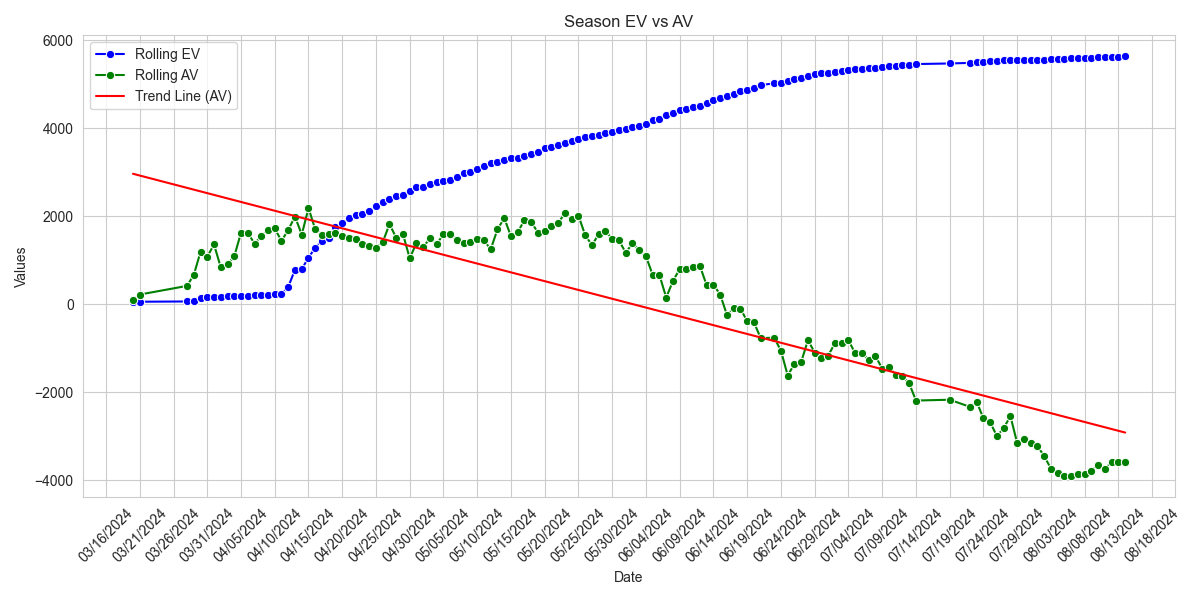
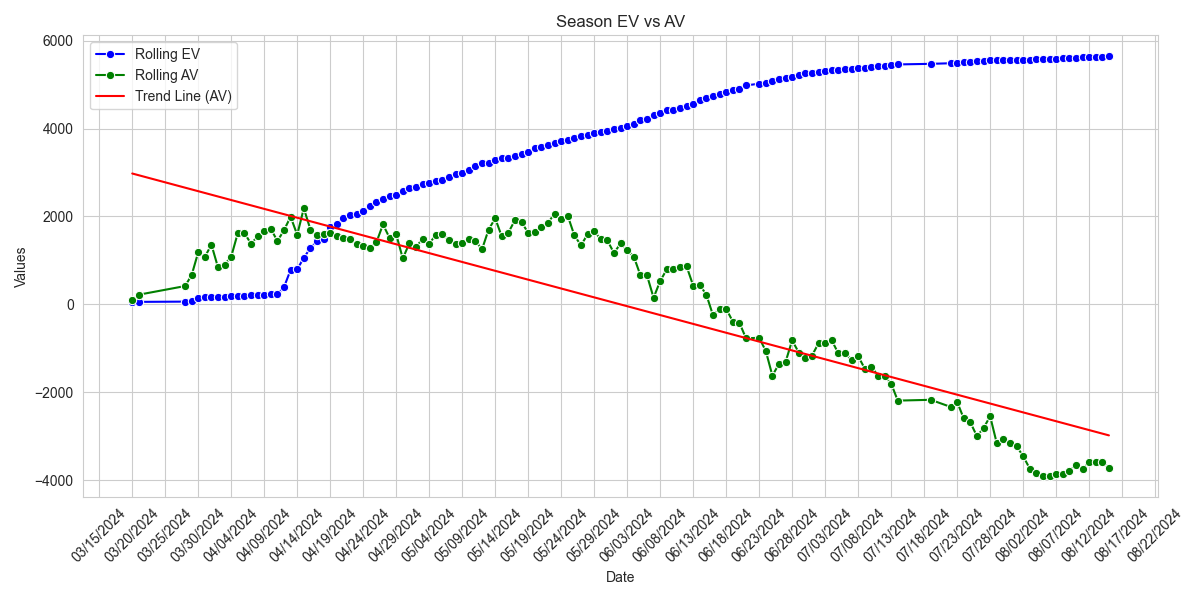
web

Changed region(s): [[0.0617, 0.03, 0.9867, 0.81], [0.0617, 0.84, 0.9867, 0.99], [0.1233, 0.3, 0.185, 0.33]]

diff --git a/index.html b/index.html
@@ -1,1 +1,1 @@
-<html><head><meta name="viewport" content="width=device-width, initial-scale=1"><meta http-equiv="Cache-Control" content="no-cache, no-store, must-revalidate"><meta http-equiv="Pragma" content="no-cache"><meta http-equiv="Expires" content="0"><title>MLB Shit</title><link rel="stylesheet" type="text/css" href="styles.css"></head><body><p><b>Daily Picks</b></p><table><tr><th>Date</th><th>Team</th><th>Price</th><th>Bet</th><th>Win</th><th>WP</th><th>EV</th><th>Type</th><th>Result</th></tr><tr><td>08/15/2024</td><td><img src='https://www.mlbstatic.com/team-logos/142.svg' height=30 width=30></td><td>-115</td><td>$70.00</td><td>$60.87</td><td>56.9%</td><td>4.5%</td><td>Fav</td><td></td></td><tr><td>08/15/2024</td><td><img src='https://www.mlbstatic.com/team-logos/136.svg' height=30 width=30></td><td>-135</td><td>$70.50</td><td>$52.22</td><td>58.1%</td><td>0.8%</td><td>Fav</td><td></td></td><tr><td>08/15/2024</td><td><img src='https://www.mlbstatic.com/team-logos/119.svg' height=30 width=30></td><td>-135</td><td>$73.50</td><td>$54.44</td><td>59.7%</td><td>2.9%</td><td>Fav</td><td></td></td><tr><td>08/15/2024</td><td><img src='https://www.mlbstatic.com/team-logos/144.svg' height=30 width=30></td><td>+102</td><td>$59.75</td><td>$60.95</td><td>49.7%</td><td>0.2%</td><td>Dog</td><td></td></td><tr><th colspan=9><B>SUMMARY: $273.75 in play to win $228.48</B></th></tr><tr><th colspan=9><B>LAST UPDATED: 08/15/2024 12:57 PM</B></th></tr></table><p><b>Monthly Totals</b></p><table><tr><th>Date</th><th>Profit</th><th>W/L</th><th>Favs</th><th>Dogs</th><th>Fav $</th><th>Dog $</th></tr><tr><td>08/01/2024</td><td>$-78.25</td><td>0-1</td><td>0</td><td>0-1</td><td>$0.00</td><td>$-78.25</td></td><tr><td>08/02/2024</td><td>$-226.38</td><td>2-5</td><td>0-1</td><td>2-4</td><td>$-78.50</td><td>$-147.88</td></td><tr><td>08/03/2024</td><td>$-284.18</td><td>1-4</td><td>1-3</td><td>0-1</td><td>$-206.43</td><td>$-77.75</td></td><tr><td>08/04/2024</td><td>$-90.70</td><td>1-2</td><td>0-2</td><td>1-0</td><td>$-183.00</td><td>$92.30</td></td><tr><td>08/05/2024</td><td>$-69.32</td><td>1-2</td><td>0-1</td><td>1-1</td><td>$-83.50</td><td>$14.18</td></td><tr><td>08/06/2024</td><td>$0.23</td><td>1-1</td><td>0-1</td><td>1-0</td><td>$-82.00</td><td>$82.23</td></td><tr><td>08/07/2024</td><td>$38.75</td><td>3-1</td><td>3-1</td><td>0</td><td>$38.75</td><td>$0.00</td></td><tr><td>08/08/2024</td><td>$-8.79</td><td>1-1</td><td>1-1</td><td>0</td><td>$-8.79</td><td>$0.00</td></td><tr><td>08/09/2024</td><td>$79.54</td><td>4-1</td><td>4-0</td><td>0-1</td><td>$107.79</td><td>$-28.25</td></td><tr><td>08/10/2024</td><td>$128.58</td><td>3-1</td><td>2-0</td><td>1-1</td><td>$112.00</td><td>$16.58</td></td><tr><td>08/11/2024</td><td>$-90.43</td><td>2-3</td><td>1-3</td><td>1-0</td><td>$-160.96</td><td>$70.53</td></td><tr><td>08/12/2024</td><td>$164.02</td><td>3-0</td><td>2-0</td><td>1-0</td><td>$100.49</td><td>$63.53</td></td><tr><td>08/13/2024</td><td>$-5.70</td><td>3-2</td><td>3-2</td><td>0</td><td>$-5.70</td><td>$0.00</td></td><tr><td>08/14/2024</td><td>$6.00</td><td>3-2</td><td>2-1</td><td>1-1</td><td>$11.44</td><td>$-5.44</td></td><tr><th colspan=7>TOTALS</th></tr><tr><th colspan=2>Monthly Profit</th><th colspan=2>W%</th><th>Fav W%</th><th>Dog W%</th><th>Predicted Upset W%</th></tr><tr><td colspan=2>$-436.63</td><td colspan=2>51.9%</td><td>54.3%</td><td>47.4%</td><td>44.4%</td></tr></table><p><b>Season Totals</b></p><table width="30%"><tr><th width="25%">Month</th><th width="25%">Profit</th><th width="25%" colspan=2>Bankroll Growth</th></tr><tr><td>March</td><td>$1,077.72</td><td colspan=2>13.4715%</td></td><tr><td>April</td><td>$-35.26</td><td colspan=2>-0.44075%</td></td><tr><td>May</td><td>$410.27</td><td colspan=2>5.128375%</td></td><tr><td>June</td><td>$-2,683.52</td><td colspan=2>-33.544%</td></td><tr><td>July</td><td>$-1,918.74</td><td colspan=2>-23.98425%</td></td><tr><td>August</td><td>$-436.63</td><td colspan=2>-5.457875%</td></td><tr><td><b><i>TOTAL</i></b></td><td><b><i>$-3,586.16</i></b></td><td colspan=2><b><i>-44.827%</i></b></td></td><tr><th colspan=4>Performance</th></tr><tr><th>Season W%</th><th>Fav W%</th><th>Dog W%</th><th>Predicted Upset W%</th></tr><tr><td>50.5%</td><td>56.0%</td><td>45.3%</td><td>48.4%</td></tr></table><p><table><tr><td><img class="chart" src="images/ev_graph.png"></td></tr></table></p></body></html>
+<html><head><meta name="viewport" content="width=device-width, initial-scale=1"><meta http-equiv="Cache-Control" content="no-cache, no-store, must-revalidate"><meta http-equiv="Pragma" content="no-cache"><meta http-equiv="Expires" content="0"><title>MLB Shit</title><link rel="stylesheet" type="text/css" href="styles.css"></head><body><p><b>Daily Picks</b></p><table><tr><th>Date</th><th>Team</th><th>Price</th><th>Bet</th><th>Win</th><th>WP</th><th>EV</th><th>Type</th><th>Result</th></tr><tr><td>08/18/2024</td><td><img src='https://www.mlbstatic.com/team-logos/136.svg' height=30 width=30></td><td>-162</td><td>$66.25</td><td>$40.90</td><td>61.8%</td><td>-0.0%</td><td>Fav</td><td></td></td><tr><td>08/18/2024</td><td><img src='https://www.mlbstatic.com/team-logos/113.svg' height=30 width=30></td><td>-108</td><td>$55.00</td><td>$50.93</td><td>52.2%</td><td>0.3%</td><td>Dog</td><td></td></td><tr><td>08/18/2024</td><td><img src='https://www.mlbstatic.com/team-logos/119.svg' height=30 width=30></td><td>-118</td><td>$59.50</td><td>$50.42</td><td>55.9%</td><td>1.9%</td><td>Fav</td><td></td></td><tr><td>08/18/2024</td><td><img src='https://www.mlbstatic.com/team-logos/142.svg' height=30 width=30></td><td>-115</td><td>$60.00</td><td>$52.17</td><td>56.1%</td><td>2.9%</td><td>Fav</td><td></td></td><tr><td>08/18/2024</td><td><img src='https://www.mlbstatic.com/team-logos/147.svg' height=30 width=30></td><td>+102</td><td>$54.25</td><td>$55.34</td><td>51.1%</td><td>1.8%</td><td>Dog</td><td></td></td><tr><th colspan=9><B>SUMMARY: $295.00 in play to win $249.76</B></th></tr><tr><th colspan=9><B>LAST UPDATED: 08/18/2024 08:52 AM</B></th></tr></table><p><b>Monthly Totals</b></p><table><tr><th>Date</th><th>Profit</th><th>W/L</th><th>Favs</th><th>Dogs</th><th>Fav $</th><th>Dog $</th></tr><tr><td>08/01/2024</td><td>$-78.25</td><td>0-1</td><td>0</td><td>0-1</td><td>$0.00</td><td>$-78.25</td></td><tr><td>08/02/2024</td><td>$-226.38</td><td>2-5</td><td>0-1</td><td>2-4</td><td>$-78.50</td><td>$-147.88</td></td><tr><td>08/03/2024</td><td>$-284.18</td><td>1-4</td><td>1-3</td><td>0-1</td><td>$-206.43</td><td>$-77.75</td></td><tr><td>08/04/2024</td><td>$-90.70</td><td>1-2</td><td>0-2</td><td>1-0</td><td>$-183.00</td><td>$92.30</td></td><tr><td>08/05/2024</td><td>$-69.32</td><td>1-2</td><td>0-1</td><td>1-1</td><td>$-83.50</td><td>$14.18</td></td><tr><td>08/06/2024</td><td>$0.23</td><td>1-1</td><td>0-1</td><td>1-0</td><td>$-82.00</td><td>$82.23</td></td><tr><td>08/07/2024</td><td>$38.75</td><td>3-1</td><td>3-1</td><td>0</td><td>$38.75</td><td>$0.00</td></td><tr><td>08/08/2024</td><td>$-8.79</td><td>1-1</td><td>1-1</td><td>0</td><td>$-8.79</td><td>$0.00</td></td><tr><td>08/09/2024</td><td>$79.54</td><td>4-1</td><td>4-0</td><td>0-1</td><td>$107.79</td><td>$-28.25</td></td><tr><td>08/10/2024</td><td>$128.58</td><td>3-1</td><td>2-0</td><td>1-1</td><td>$112.00</td><td>$16.58</td></td><tr><td>08/11/2024</td><td>$-90.43</td><td>2-3</td><td>1-3</td><td>1-0</td><td>$-160.96</td><td>$70.53</td></td><tr><td>08/12/2024</td><td>$164.02</td><td>3-0</td><td>2-0</td><td>1-0</td><td>$100.49</td><td>$63.53</td></td><tr><td>08/13/2024</td><td>$-5.70</td><td>3-2</td><td>3-2</td><td>0</td><td>$-5.70</td><td>$0.00</td></td><tr><td>08/14/2024</td><td>$6.00</td><td>3-2</td><td>2-1</td><td>1-1</td><td>$11.44</td><td>$-5.44</td></td><tr><td>08/15/2024</td><td>$-142.88</td><td>1-3</td><td>1-2</td><td>0-1</td><td>$-83.13</td><td>$-59.75</td></td><tr><th colspan=7>TOTALS</th></tr><tr><th colspan=2>Monthly Profit</th><th colspan=2>W%</th><th>Fav W%</th><th>Dog W%</th><th>Predicted Upset W%</th></tr><tr><td colspan=2>$-579.51</td><td colspan=2>50.0%</td><td>52.6%</td><td>45.0%</td><td>44.4%</td></tr></table><p><b>Season Totals</b></p><table width="30%"><tr><th width="25%">Month</th><th width="25%">Profit</th><th width="25%" colspan=2>Bankroll Growth</th></tr><tr><td>March</td><td>$1,077.72</td><td colspan=2>13.4715%</td></td><tr><td>April</td><td>$-35.26</td><td colspan=2>-0.44075%</td></td><tr><td>May</td><td>$410.27</td><td colspan=2>5.128375%</td></td><tr><td>June</td><td>$-2,683.52</td><td colspan=2>-33.544%</td></td><tr><td>July</td><td>$-1,918.74</td><td colspan=2>-23.98425%</td></td><tr><td>August</td><td>$-579.51</td><td colspan=2>-7.243875%</td></td><tr><td><b><i>TOTAL</i></b></td><td><b><i>$-3,729.04</i></b></td><td colspan=2><b><i>-46.613%</i></b></td></td><tr><th colspan=4>Performance</th></tr><tr><th>Season W%</th><th>Fav W%</th><th>Dog W%</th><th>Predicted Upset W%</th></tr><tr><td>50.4%</td><td>55.9%</td><td>45.2%</td><td>48.4%</td></tr></table><p><table><tr><td><img class="chart" src="images/ev_graph.png"></td></tr></table></p></body></html>
